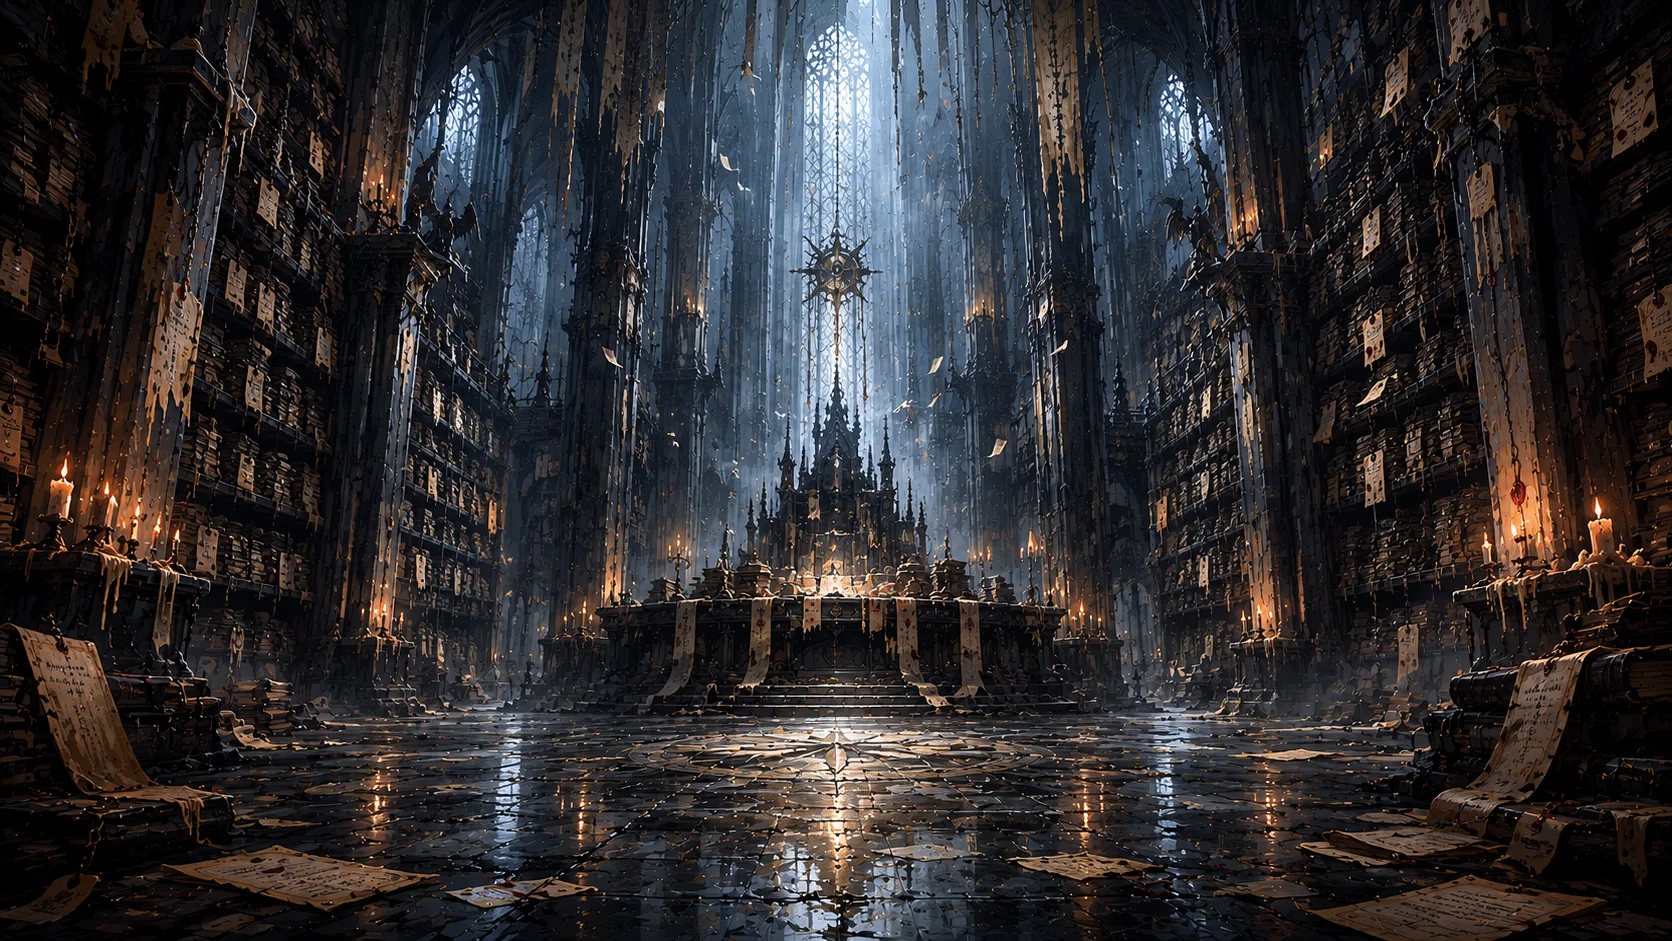
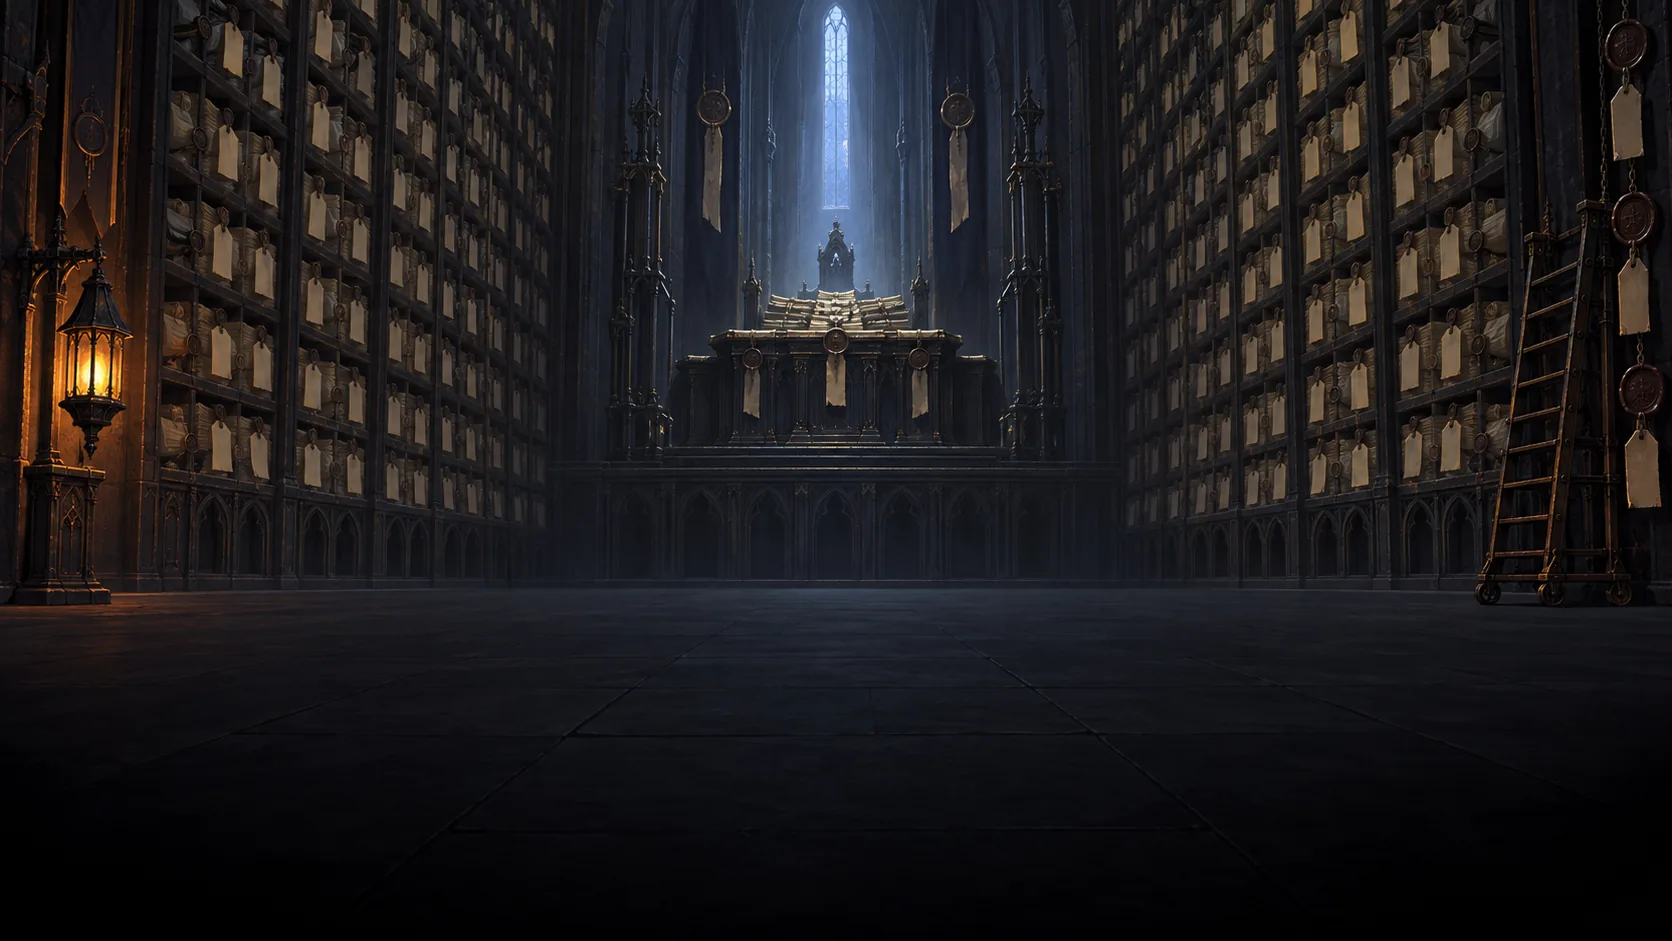
Drie Act 2-gevechtsplaten hergenereerd op de toneelstandaard (v116): schedelgang, papierkathedraal en dossiertoren — vloerrand op 56%, grond 61 zonder midden; gemeten 0,0-0,1% afwijking, crop 32% -> 17%

diff --git a/js/art.js b/js/art.js
@@ -750,13 +750,13 @@ const GROND = {
   'Act 1 achtergronden/GevechtstijlEPISCHGEVECHTACT1.webp': { grond: 65 },         /* plint tot 67% aan de heldkant */
   'Act 1 achtergronden/GevechtstijlEPISCHGEVECHT2ACT1.webp': { grond: 65, midden: 59 },
   /* --- Act 2 — Het Archief --- */
-  'Act 2 achtergronden/Gevechtstijl1act2.webp': { grond: 71, midden: 62 },         /* rekken tot 73% — hergeneratie-kandidaat */
+  'Act 2 achtergronden/Gevechtstijl1act2.webp': { grond: 61 },                     /* v116: hergenereerd op de toneelstandaard (vloerrand 56%) */
   'Act 2 achtergronden/Gevechtstijl2act2.webp': { grond: 68, midden: 57 },
   'Act 2 achtergronden/Gevechtstijl3act2.webp': { grond: 69, midden: 57 },         /* kastenwand tot 72% */
   'Act 2 achtergronden/Gevechtstijl4act2.webp': { grond: 67, midden: 57 },         /* boek links-vooraan achter de held */
   'Act 2 achtergronden/Gevechtstijl5act2.webp': { grond: 61, midden: 56 },         /* toneelstandaard: vloerrand 56% */
-  'Act 2 achtergronden/Gevechtstijl act2 EPISCH 1.webp': { grond: 69, midden: 62 },/* drukste textuur — hergeneratie-kandidaat */
-  'Act 2 achtergronden/Gevechtstijl act2 EPISCH 2.webp': { grond: 69, midden: 68 },/* dossiertoren met trap — hergeneratie-kandidaat */
+  'Act 2 achtergronden/Gevechtstijl act2 EPISCH 1.webp': { grond: 61 },            /* v116: hergenereerd op de toneelstandaard */
+  'Act 2 achtergronden/Gevechtstijl act2 EPISCH 2.webp': { grond: 61 },            /* v116: hergenereerd op de toneelstandaard */
   'Act 2 achtergronden/Gevechtstijl act2 EPISCH 3.webp': { grond: 64 },
   /* --- Act 3 — Het Slachtblok --- */
   'Act 3 achtergronden/Gevechtstijl Act 3 stijl 1.webp': { grond: 61, midden: 56 },

diff --git a/sw.js b/sw.js
@@ -2,7 +2,7 @@
    Code (html/js/css): network-first — online krijg je altijd de nieuwste versie.
    Art (assets/): cache-first — afbeeldingen veranderen niet, dus herbezoeken
    laden vrijwel instant. Offline werkt alles vanuit de cache. */
-const CACHE = 'slayit-v115'; // v115: HET TONEEL (grondlijn per gevechtsplaat, schermrelatieve figuurmaat, contactschaduw, portret met metgezel+hof, kaarttitels) + tweede Act 1-reeks van de afdaling (bordes, ladder, valgat, rustnis, affiche, kist) + de zes Slachter-bewegingsframes
+const CACHE = 'slayit-v116'; // v116: drie Act 2-gevechtsplaten hergenereerd op de toneelstandaard (schedelgang, papierkathedraal, dossiertoren) — grond 61, crop van 32% naar 17%
 const BESTANDEN = [
   '.',
   'css/style.css',
